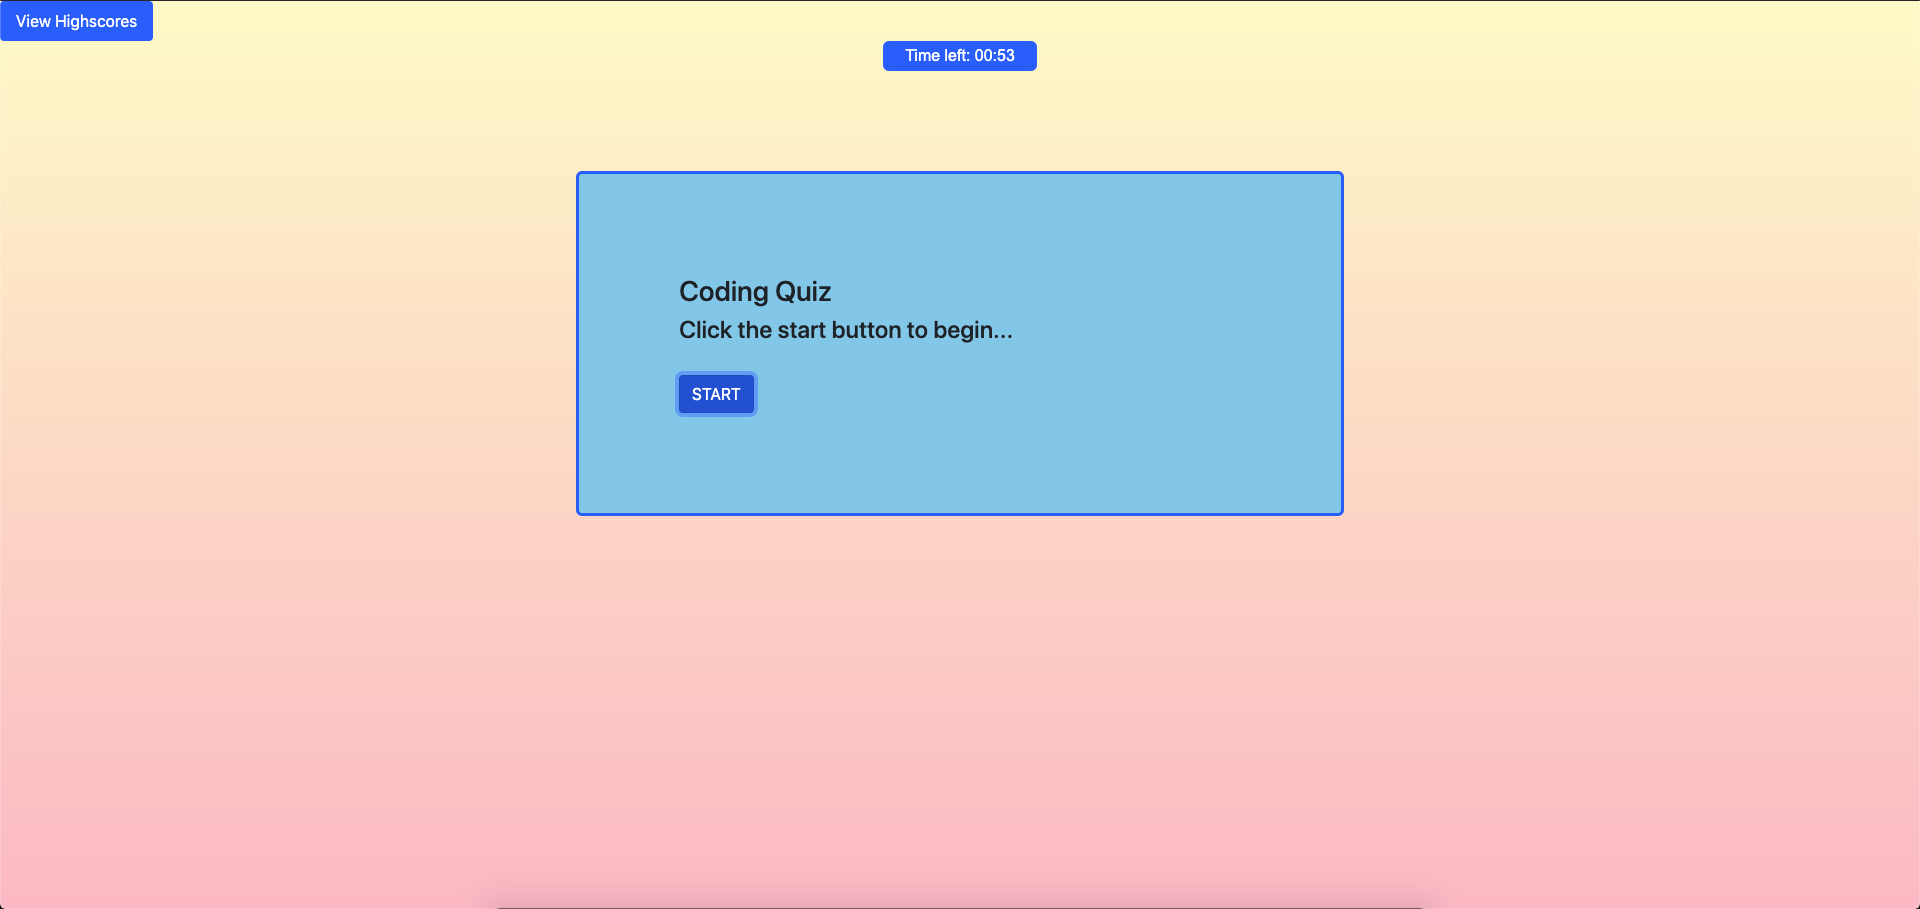
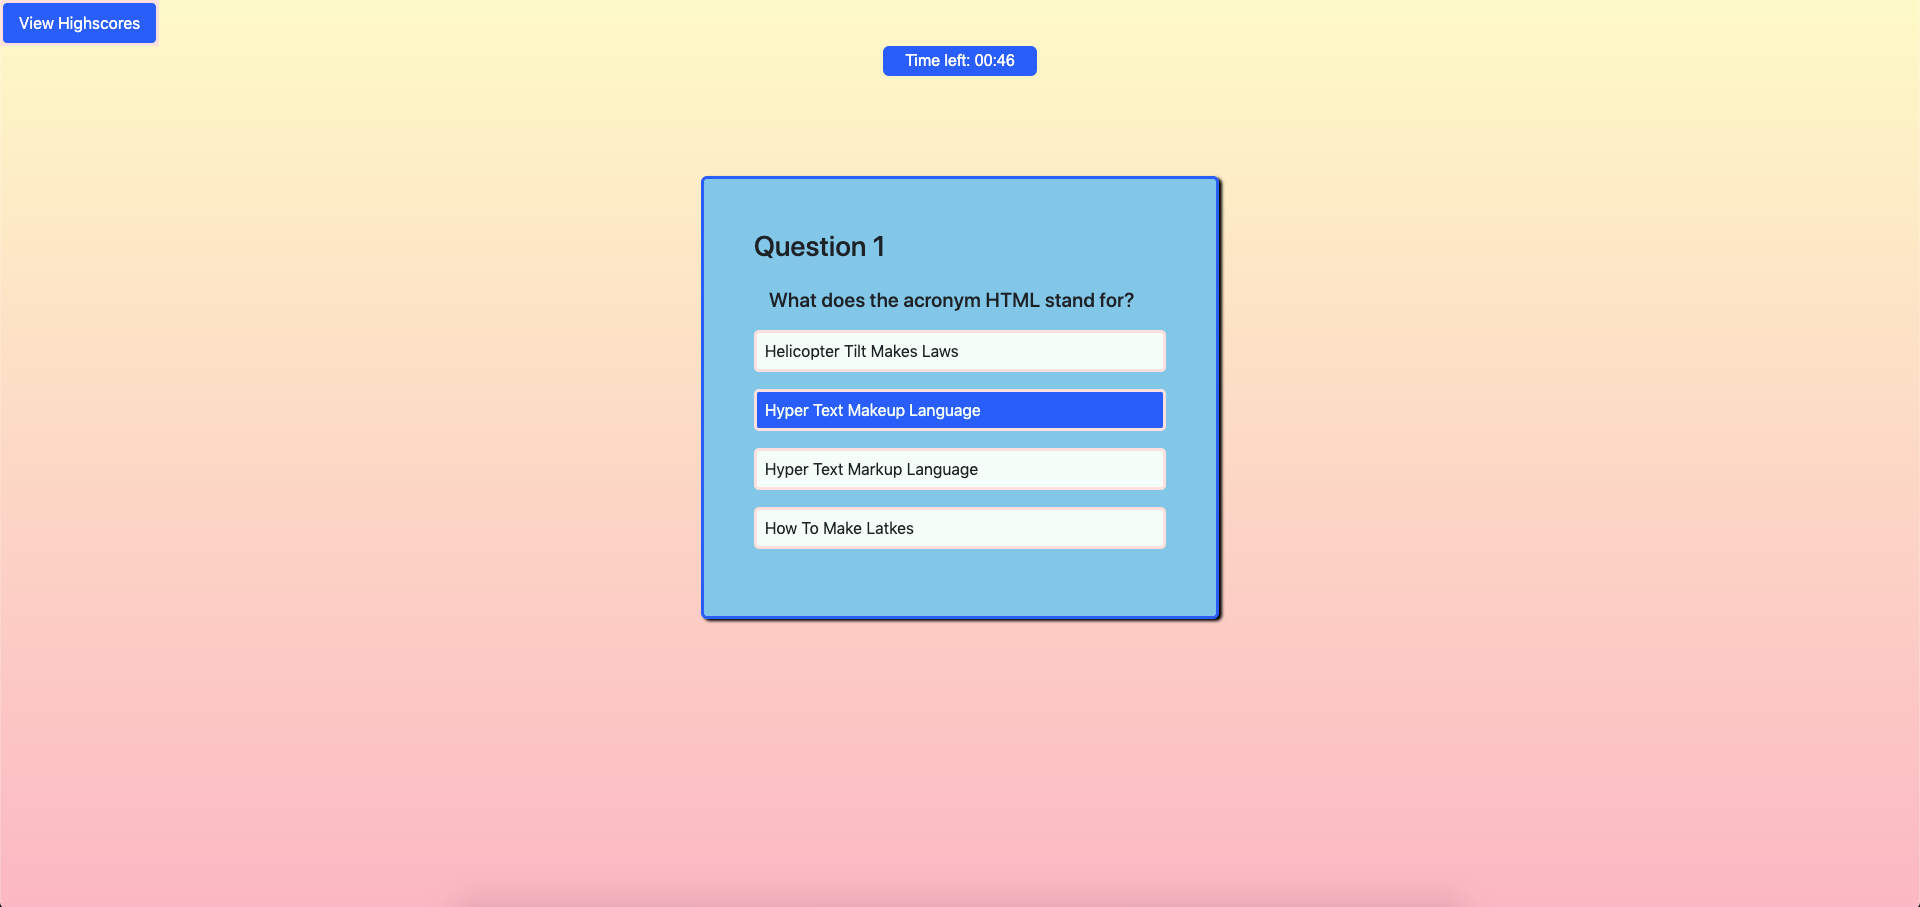
Added new screenshots to README

Changed region(s): [[0.2812, 0.1852, 0.7188, 0.71], [0.0, 0.0, 0.0938, 0.0617], [0.4688, 0.0309, 0.5312, 0.0926]]

diff --git a/README.md b/README.md
@@ -6,6 +6,8 @@ Starting the quiz also sets off a timer, which will count down over the course o
 
 After they complete the quiz, users will be prompted with a Highscores window in which they may enter a name to the scoreboard containing their relative score. If a user would like to check the Highscores leaderboard, they can do so via the 'View Highscores' button located in the top left corner of the page. The scoreboard remembers previous scores, and provides an option to clear the leaderboard to make room for newer highscores.
 
-![Screenshot of code-quiz intial page with START button and timer.](images/Code-quiz.png)
+![Screenshot of code-quiz intial page with START button and timer.](images/Start-quiz.png)
+
+![Screenshot of code-quiz first question page with options and timer begin](images/Code-quiz.png)
 
 Test your knowledge [here!](https://jimbopulos.github.io/timed-quiz/)
